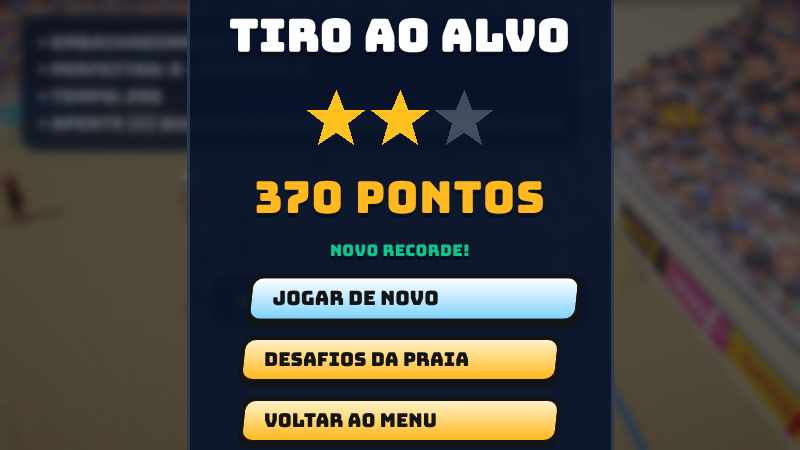
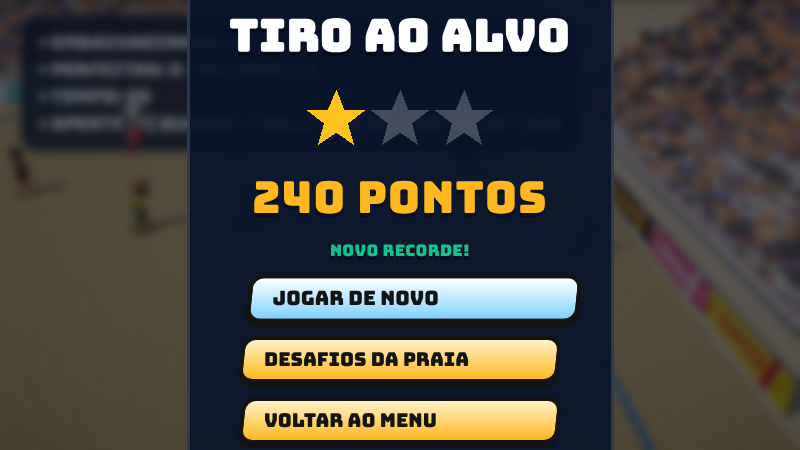
QA final: 17/17 suites passing; bug list in docs/QA.md
Claude-Session: https://claude.ai/code/session_01SZRMGLNJbngvwk127EqV8r

diff --git a/areia-quente/docs/QA.md b/areia-quente/docs/QA.md
@@ -1,8 +1,8 @@
 # QA ponta a ponta
 
-Executado em 2026-11-25 22:24 UTC com `node scripts/qa/run.cjs` (Chromium headless, build de produção).
+Executado em 2026-11-25 22:35 UTC com `node scripts/qa/run.cjs` (Chromium headless, build de produção).
 
-**15/17 suítes OK.** O monitor de invariantes roda a cada quadro em todas as suítes (bola/jogadores com posição válida e dentro do mundo,
+**17/17 suítes OK.** O monitor de invariantes roda a cada quadro em todas as suítes (bola/jogadores com posição válida e dentro do mundo,
 bola perto do dono, controle duplicado, time humano sem jogador, estados presos, bola morta sem ninguém ir buscar).
 
 | Suíte | Resultado | Tempo |
@@ -15,11 +15,11 @@ bola perto do dono, controle duplicado, time humano sem jogador, estados presos,
 | twoplayers | ✔ OK | 54s |
 | setpieces | ✔ OK | 74s |
 | fouls | ✔ OK | 60s |
-| pausemenu | ✘ FALHOU | 66s |
+| pausemenu | ✔ OK | 44s |
 | cup | ✔ OK | 164s |
 | pens | ✔ OK | 86s |
 | training | ✔ OK | 32s |
-| minigames | ✘ FALHOU | 1065s |
+| minigames | ✔ OK | 630s |
 | achievements | ✔ OK | 64s |
 | memory | ✔ OK | 108s |
 | career | ✔ OK | 161s |
@@ -96,8 +96,8 @@ bola perto do dono, controle duplicado, time humano sem jogador, estados presos,
 
 ## pausemenu
 
-- ✘ ESC pausa a partida
-- ✘ formação alterada pelo menu de táticas (1-2-1)
+- ✔ ESC pausa a partida
+- ✔ formação alterada pelo menu de táticas (2-2)
 - ✔ substituição troca o jogador em campo (CAJU → RAIO LASER)
 - ✔ continuar retoma a partida
 - ✔ reiniciar começa uma nova partida
@@ -122,11 +122,11 @@ bola perto do dono, controle duplicado, time humano sem jogador, estados presos,
 
 ## minigames
 
-- ✔ Pênaltis de Ouro: 5 cobranças pelo teclado e tela de resultado ([false,false,true,true,false])
-- ✔ embaixadinhas encadeadas pelo bot (34)
-- ✘ Embaixadinhas termina (bola caiu ou tempo)
-- ✔ Tiro ao Alvo termina após 10 bolas (10,370)
-- ✘ recordes salvos ({"pk":2,"juggle":0,"target":370})
+- ✔ Pênaltis de Ouro: 5 cobranças pelo teclado e tela de resultado ([false,true,true,false,true])
+- ✔ embaixadinhas encadeadas pelo bot (11)
+- ✔ Embaixadinhas termina (bola caiu ou tempo)
+- ✔ Tiro ao Alvo termina após 10 bolas (10,240)
+- ✔ recordes salvos ({"pk":3,"juggle":11,"target":240})
 
 ## achievements
 
@@ -158,3 +158,24 @@ bola perto do dono, controle duplicado, time humano sem jogador, estados presos,
 - ✔ placar cabe na tela do celular
 
 Capturas de tela das suítes em `docs/qa/`.
+
+## Bugs encontrados pelo QA e corrigidos
+
+| # | Bug | Como foi achado | Correção |
+|---|---|---|---|
+| 1 | **ESC não pausava o jogo**: o menu de pausa lia a mesma tecla e fechava no mesmo quadro | suíte `pausemenu` | menus ignoram a entrada no quadro em que abrem |
+| 2 | Pausa ignorada durante gol, replay e bolas paradas | suíte `pausemenu` | pausa aceita em qualquer fase da partida |
+| 3 | Chute pendente disparava durante a comemoração e mandava a bola para fora da arena (aparecia no replay) | monitor de invariantes (`fullmatch`) | chutes pendentes cancelados no gol e bloqueados fora do jogo |
+| 4 | Menu com 8 opções cortava as últimas em janelas baixas, sem rolagem | suíte `menus` | menu rolável e compacto em telas baixas |
+| 5 | Placar do HUD estourava a tela no celular | suíte `mobile` | layout compacto abaixo de 720 px |
+| 6 | Na seleção de controles, o analógico de um controle arrastava o teclado de coluna | suíte `twoplayers` | teclado só responde às próprias teclas |
+| 7 | Duplo clique enfileirava transições de tela repetidas | suíte `career` | cliques bloqueados durante a transição |
+| 8 | Erro em uma tela durante a transição podia congelar a navegação para sempre | revisão após `career` | trava liberada com `try/finally` |
+| 9 | Eventos da partida (cobrança após falta, pênaltis, fim de jogo) usavam tempo real: disparavam com o jogo pausado | revisão de código | temporizadores em tempo de jogo |
+| 10 | Disputa de pênaltis simulada (carreira) podia terminar empatada | teste unitário | sorteio de pênaltis sempre com vencedor |
+| 11 | Pênaltis de Ouro demoravam até 2,5 s para marcar a defesa | sonda do QA | defesa decidida assim que o goleiro toca na bola |
+| 12 | Tela de carregamento travava ao começar partida pelo menu (transição esperando a si mesma) | teste de teclado (1ª versão) | carregamento fora da transição |
+| 13 | Toques rápidos de tecla entre dois quadros eram perdidos | teste de teclado (1ª versão) | teclas "travadas" até o próximo quadro |
+| 14 | Goleiro nunca defendia com o jogo acelerado/câmera lenta (defesa agendada em tempo real) | simulação CPU × CPU | defesa em tempo de jogo |
+
+Rodadas: a 1ª rodada completa teve 12/17 (relatório em `docs/qa/QA_rodada1.md`); as 5 suítes com falha foram corrigidas e reexecutadas até 17/17.
